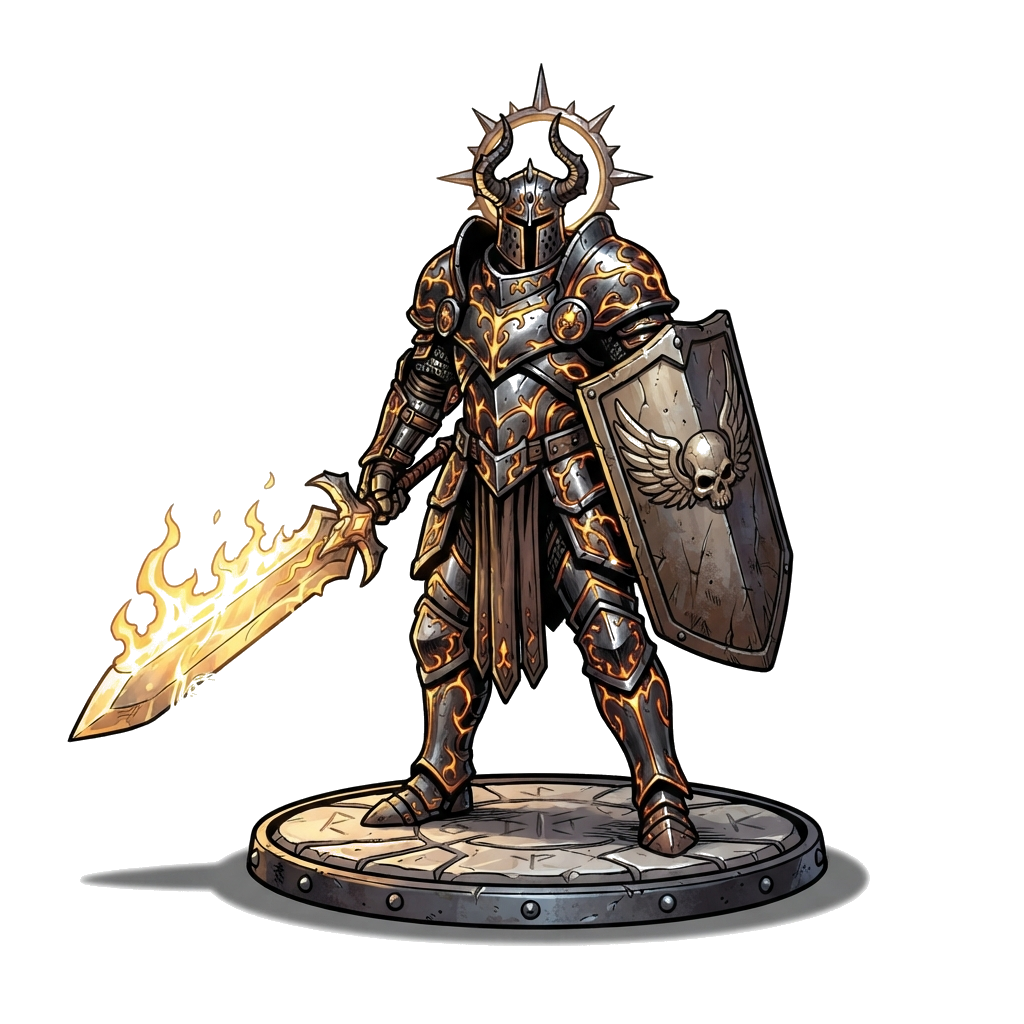
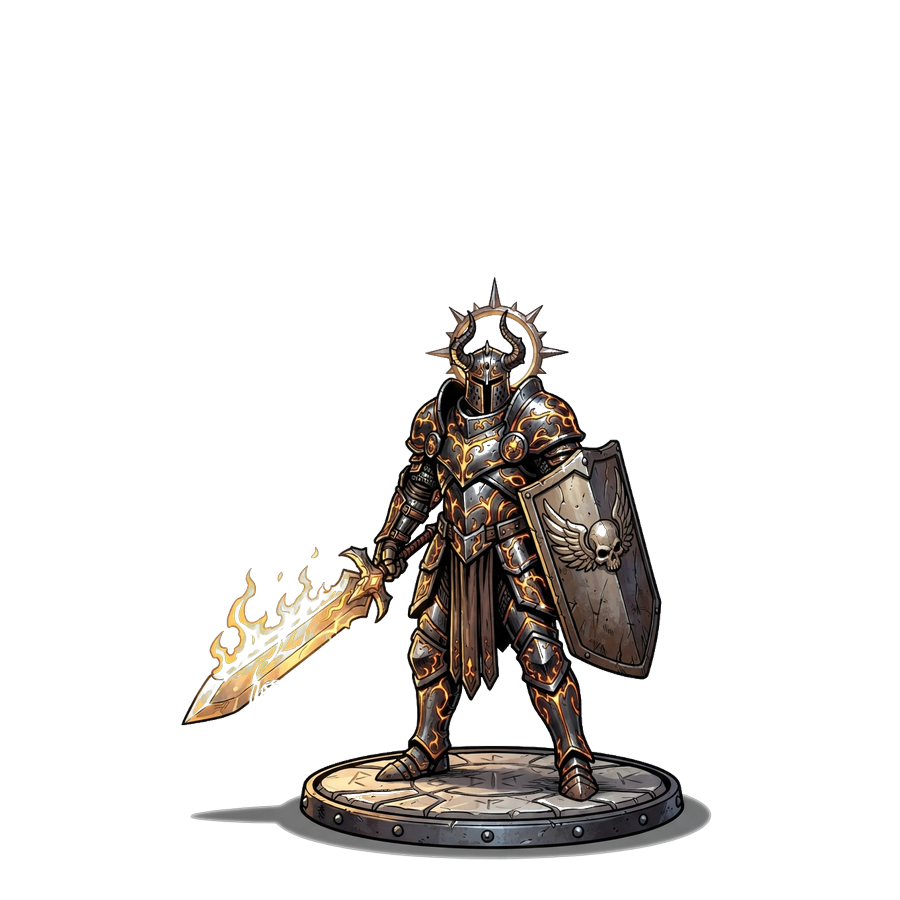
feat(ui): equalize miniature plinth canvas and responsive desktop/mobile scaling

diff --git a/lib/features/combat/battle_screen.dart b/lib/features/combat/battle_screen.dart
@@ -1055,35 +1055,42 @@ class _BattleScreenState extends State<BattleScreen> {
                     Expanded(
                       child: Padding(
                         padding: const EdgeInsets.symmetric(horizontal: 10.0, vertical: 4.0),
-                        child: Column(
-                          children: [
-                            // Hostile Formation (Arcanum backline top -> Vanguard frontline bottom)
-                            _buildSquadFormation(
-                              units: widget.tickManager.enemies,
-                              isEnemy: true,
-                              activeUnitId: activeUnit?.id,
-                              selectedTargetId: _selectedEnemyId,
-                              onSelectTarget: (id) {
-                                final tauntingEnemy = widget.tickManager.enemies.where((u) => u.isAlive && u.isTaunting).firstOrNull;
-                                if (tauntingEnemy != null && tauntingEnemy.id != id) {
-                                  _addPop('TAUNTED by ${tauntingEnemy.name}!', const Color(0xFFFF5252), isCrit: true);
-                                  setState(() => _selectedEnemyId = tauntingEnemy.id);
-                                } else {
-                                  setState(() => _selectedEnemyId = id);
-                                }
-                              },
+                        child: Center(
+                          child: ConstrainedBox(
+                            constraints: BoxConstraints(
+                              maxWidth: MediaQuery.of(context).size.width >= 1000 ? 1100.0 : 780.0,
                             ),
+                            child: Column(
+                              children: [
+                                // Hostile Formation (Arcanum backline top -> Vanguard frontline bottom)
+                                _buildSquadFormation(
+                                  units: widget.tickManager.enemies,
+                                  isEnemy: true,
+                                  activeUnitId: activeUnit?.id,
+                                  selectedTargetId: _selectedEnemyId,
+                                  onSelectTarget: (id) {
+                                    final tauntingEnemy = widget.tickManager.enemies.where((u) => u.isAlive && u.isTaunting).firstOrNull;
+                                    if (tauntingEnemy != null && tauntingEnemy.id != id) {
+                                      _addPop('TAUNTED by ${tauntingEnemy.name}!', const Color(0xFFFF5252), isCrit: true);
+                                      setState(() => _selectedEnemyId = tauntingEnemy.id);
+                                    } else {
+                                      setState(() => _selectedEnemyId = id);
+                                    }
+                                  },
+                                ),
 
-                            // Center Clash Line: The Ashen Front
-                            _buildClashLine(),
+                                // Center Clash Line: The Ashen Front
+                                _buildClashLine(),
 
-                            // Allied Formation (Vanguard frontline top -> Arcanum backline bottom)
-                            _buildSquadFormation(
-                              units: widget.tickManager.allies,
-                              isEnemy: false,
-                              activeUnitId: activeUnit?.id,
+                                // Allied Formation (Vanguard frontline top -> Arcanum backline bottom)
+                                _buildSquadFormation(
+                                  units: widget.tickManager.allies,
+                                  isEnemy: false,
+                                  activeUnitId: activeUnit?.id,
+                                ),
+                              ],
                             ),
-                          ],
+                          ),
                         ),
                       ),
                     ),
@@ -2059,13 +2066,21 @@ class _BattleScreenState extends State<BattleScreen> {
       rightMinions = minions.skip(half).toList();
     }
 
+    final double screenWidth = MediaQuery.of(context).size.width;
+    final bool isDesktop = screenWidth >= 1000;
+    final bool isTablet = screenWidth >= 600 && screenWidth < 1000;
+
+    final double stageMaxWidth = isDesktop ? 1050.0 : (isTablet ? 860.0 : 720.0);
+    final double bossMaxWidth = isDesktop ? 460.0 : (isTablet ? 400.0 : 360.0);
+    final double minionMaxWidth = isDesktop ? 240.0 : (isTablet ? 210.0 : 180.0);
+
     return Expanded(
       flex: 12,
       child: Padding(
         padding: const EdgeInsets.only(bottom: 6.0),
         child: Center(
           child: ConstrainedBox(
-            constraints: const BoxConstraints(maxWidth: 720),
+            constraints: BoxConstraints(maxWidth: stageMaxWidth),
             child: Row(
               mainAxisAlignment: MainAxisAlignment.center,
               crossAxisAlignment: CrossAxisAlignment.stretch,
@@ -2076,6 +2091,7 @@ class _BattleScreenState extends State<BattleScreen> {
                       activeUnitId: activeUnitId,
                       selectedTargetId: selectedTargetId,
                       onSelectTarget: onSelectTarget,
+                      maxWidth: minionMaxWidth,
                     )),
 
                 // Symmetrical spacer when there are no minions
@@ -2089,7 +2105,7 @@ class _BattleScreenState extends State<BattleScreen> {
                     padding: const EdgeInsets.symmetric(horizontal: 4.0),
                     child: Center(
                       child: ConstrainedBox(
-                        constraints: const BoxConstraints(maxWidth: 360),
+                        constraints: BoxConstraints(maxWidth: bossMaxWidth),
                         child: _buildUnitCard(
                           unit: boss,
                           isEnemy: true,
@@ -2109,6 +2125,7 @@ class _BattleScreenState extends State<BattleScreen> {
                       activeUnitId: activeUnitId,
                       selectedTargetId: selectedTargetId,
                       onSelectTarget: onSelectTarget,
+                      maxWidth: minionMaxWidth,
                     )),
 
                 // Symmetrical spacer when there is 1 minion (on the right) or no minions
@@ -2127,6 +2144,7 @@ class _BattleScreenState extends State<BattleScreen> {
     required String? activeUnitId,
     String? selectedTargetId,
     ValueChanged<String>? onSelectTarget,
+    double maxWidth = 180.0,
   }) {
     return Expanded(
       flex: 2,
@@ -2134,7 +2152,7 @@ class _BattleScreenState extends State<BattleScreen> {
         padding: const EdgeInsets.symmetric(horizontal: 3.0),
         child: Center(
           child: ConstrainedBox(
-            constraints: const BoxConstraints(maxWidth: 180),
+            constraints: BoxConstraints(maxWidth: maxWidth),
             child: _buildUnitCard(
               unit: unit,
               isEnemy: true,
@@ -2156,8 +2174,13 @@ class _BattleScreenState extends State<BattleScreen> {
     String? selectedTargetId,
     ValueChanged<String>? onSelectTarget,
   }) {
-    // Tighter together width-wise: cluster units in a disciplined squad formation
-    final double maxClusterWidth = (units.length * 200.0).clamp(240.0, 680.0);
+    final double screenWidth = MediaQuery.of(context).size.width;
+    final bool isDesktop = screenWidth >= 1000;
+    final bool isTablet = screenWidth >= 600 && screenWidth < 1000;
+
+    final double perUnitWidth = isDesktop ? 280.0 : (isTablet ? 240.0 : 200.0);
+    final double maxClusterWidth = (units.length * perUnitWidth).clamp(240.0, isDesktop ? 1050.0 : 760.0);
+    final double cardMaxWidth = isDesktop ? 280.0 : (isTablet ? 240.0 : 210.0);
 
     // GDD v2.8 Sec 3.4 & 3.5: Leadership Aura checks for Lord Vladislav
     final commander = widget.tickManager.allies.where((u) => u.isCommander).firstOrNull;
@@ -2236,7 +2259,7 @@ class _BattleScreenState extends State<BattleScreen> {
                               padding: const EdgeInsets.symmetric(horizontal: 4.0, vertical: 1.0),
                               child: Center(
                                 child: ConstrainedBox(
-                                  constraints: const BoxConstraints(maxWidth: 210),
+                                  constraints: BoxConstraints(maxWidth: cardMaxWidth),
                                   child: _buildUnitCard(
                                     unit: unit,
                                     isEnemy: isEnemy,
@@ -2458,6 +2481,14 @@ class _BattleScreenState extends State<BattleScreen> {
       modelGlowBlur = 7.5;
     }
 
+    final double screenWidth = MediaQuery.of(context).size.width;
+    final bool isDesktop = screenWidth >= 1000;
+    final double miniatureScale = isBossUnit
+        ? (isDesktop ? 1.85 : 1.70)
+        : (unit.isFigurineCutout
+            ? (unit.isCommander ? (isDesktop ? 1.48 : 1.38) : (isDesktop ? 1.42 : 1.32))
+            : 1.0);
+
     final Widget cardWidget = GestureDetector(
       onTap: () {
         if (isEnemy && alive) {
@@ -2621,7 +2652,7 @@ class _BattleScreenState extends State<BattleScreen> {
                           padding: EdgeInsets.only(bottom: isBossUnit ? 6.0 : 4.0),
                           child: Center(
                             child: Transform.scale(
-                              scale: isBossUnit ? 1.75 : 1.25,
+                              scale: miniatureScale,
                               child: ImageFiltered(
                                 imageFilter: ui.ImageFilter.blur(
                                   sigmaX: modelGlowBlur,
@@ -2652,7 +2683,7 @@ class _BattleScreenState extends State<BattleScreen> {
                         padding: EdgeInsets.only(bottom: isBossUnit ? 6.0 : 4.0),
                         child: Center(
                           child: Transform.scale(
-                            scale: isBossUnit ? 1.75 : (unit.isFigurineCutout ? 1.25 : 1.0),
+                            scale: miniatureScale,
                             child: ColorFiltered(
                               colorFilter: alive
                                   ? const ColorFilter.mode(Colors.transparent, BlendMode.multiply)

diff --git a/lib/features/crucible/crucible_screen.dart b/lib/features/crucible/crucible_screen.dart
@@ -752,8 +752,8 @@ class _CrucibleScreenState extends State<CrucibleScreen>
                         Positioned.fill(
                           child: Image.asset(
                             unit.effectiveAvatarAsset,
-                            fit: BoxFit.cover,
-                            alignment: Alignment.topCenter,
+                            fit: unit.isFigurineCutout ? BoxFit.contain : BoxFit.cover,
+                            alignment: unit.isFigurineCutout ? Alignment.bottomCenter : Alignment.topCenter,
                           ),
                         ),
                         Positioned.fill(
@@ -1004,8 +1004,12 @@ class _CrucibleScreenState extends State<CrucibleScreen>
                             ),
                             child: Image.asset(
                               unit.effectiveAvatarAsset,
-                              fit: BoxFit.cover,
-                              alignment: Alignment.topCenter,
+                              fit: unit.isFigurineCutout
+                                  ? BoxFit.contain
+                                  : BoxFit.cover,
+                              alignment: unit.isFigurineCutout
+                                  ? Alignment.bottomCenter
+                                  : Alignment.topCenter,
                             ),
                           ),
                         ),

diff --git a/lib/shared/widgets/app_shell.dart b/lib/shared/widgets/app_shell.dart
@@ -1812,8 +1812,8 @@ class _AppShellState extends State<AppShell> {
                                     Positioned.fill(
                                       child: Image.asset(
                                         unit.effectiveAvatarAsset,
-                                        fit: BoxFit.cover,
-                                        alignment: Alignment.topCenter,
+                                        fit: unit.isFigurineCutout ? BoxFit.contain : BoxFit.cover,
+                                        alignment: unit.isFigurineCutout ? Alignment.bottomCenter : Alignment.topCenter,
                                         errorBuilder: (_, __, ___) => Container(
                                           color: const Color(0xFF2B2B36),
                                           child: const Icon(Icons.shield, color: Colors.white24, size: 24),
